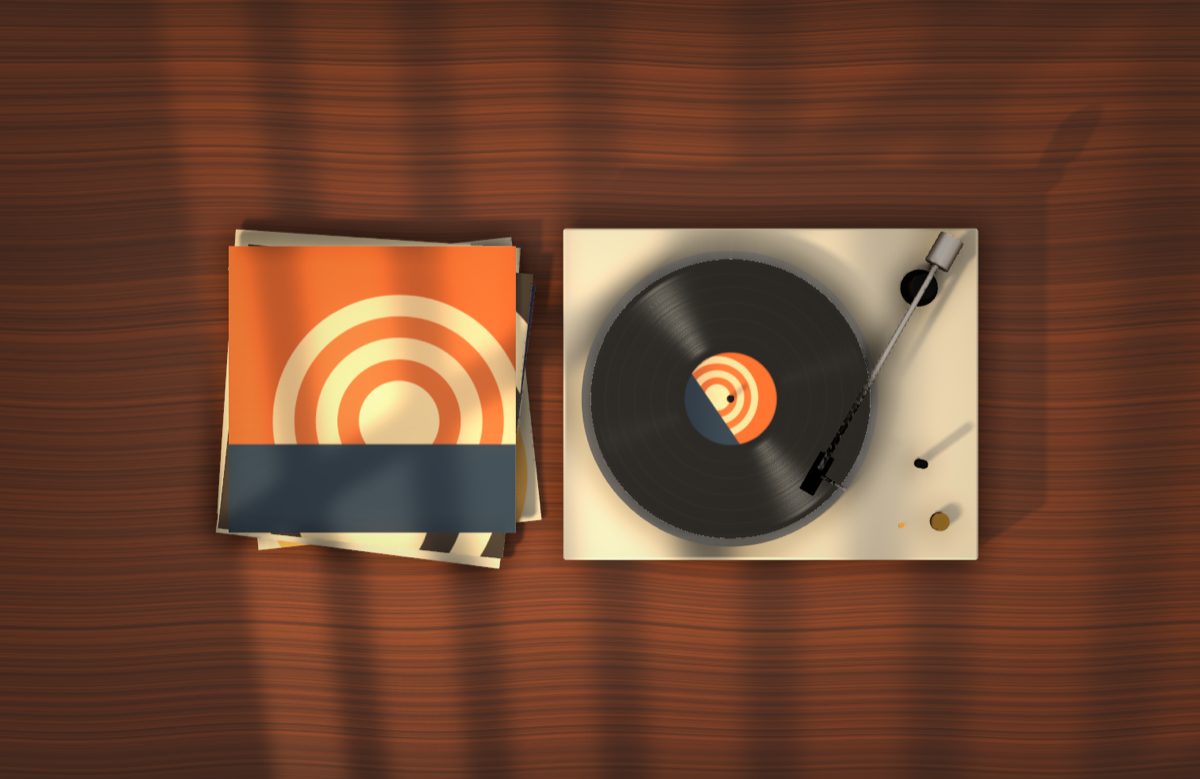
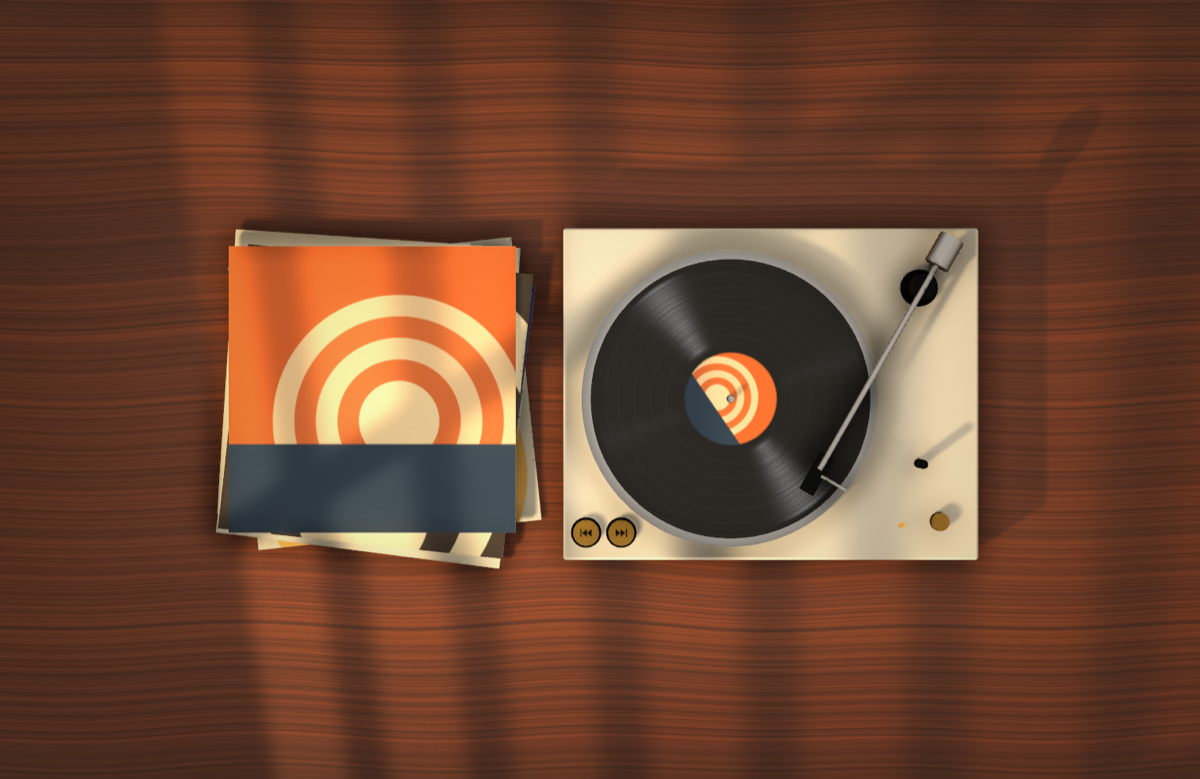
Add skip buttons and make only the tonearm toggle playback

diff --git a/Sources/Vinyl/TurntableScene.swift b/Sources/Vinyl/TurntableScene.swift
@@ -53,6 +53,11 @@ final class TurntableScene {
     private var bulbMaterial = SCNMaterial()
     private var sheenMaterial = SCNMaterial()
 
+    /// Things on the turntable that react to a click.
+    enum Control: String { case playPause = "ctl.playpause", next = "ctl.next", previous = "ctl.prev" }
+    private var buttons: [Control: SCNNode] = [:]
+    private var knobNode = SCNNode()
+
     private struct StackItem { let node: SCNNode; let dx: CGFloat; let dz: CGFloat; let yaw: CGFloat }
     private var stack: [StackItem] = []
     private var stackCounter: UInt64 = 0
@@ -192,7 +197,11 @@ final class TurntableScene {
         vinyl.normal.intensity = 1
         let record = SCNCylinder(radius: 1.5, height: 0.025)
         record.radialSegmentCount = 160
-        spin.addChildNode(node(record, vinyl, at: SCNVector3(0, 0.2125, 0)))
+        // The record is radially symmetric, so it stays still while the label and platter spin.
+        // That lets the light wedges across the grooves live in its own material and stay put.
+        vinyl.emission.contents = Self.sheen
+        sheenMaterial = vinyl
+        turntable.addChildNode(node(record, vinyl, at: SCNVector3(-0.45, top + 0.2125, 0.05)))
 
         labelMaterial = Self.mat(Tex.label(from: currentArt), rough: 0.6)
         let label = SCNCylinder(radius: 0.5, height: 0.028)
@@ -201,16 +210,6 @@ final class TurntableScene {
         spin.addChildNode(node(SCNCylinder(radius: 0.035, height: 0.14), alu, at: SCNVector3(0, 0.27, 0)))
         turntable.addChildNode(spin)
 
-        // Groove sheen sits just above the record and stays put while it spins.
-        sheenMaterial.lightingModel = .constant
-        sheenMaterial.diffuse.contents = Self.sheen
-        sheenMaterial.blendMode = .add
-        sheenMaterial.writesToDepthBuffer = false
-        let sheenDisc = SCNCylinder(radius: 1.5, height: 0.002)
-        sheenDisc.radialSegmentCount = 96
-        let sheenNode = node(sheenDisc, sheenMaterial, at: SCNVector3(-0.45, top + 0.228, 0.05))
-        sheenNode.castsShadow = false
-        turntable.addChildNode(sheenNode)
 
         // Tonearm.
         let dark = Self.mat(Self.rgb(0.07, 0.07, 0.075), rough: 0.35, metal: 1)
@@ -235,10 +234,33 @@ final class TurntableScene {
 
         // Brass knob + power LED.
         let brass = Self.mat(Self.rgb(0.78, 0.60, 0.30), rough: 0.3, metal: 1)
-        turntable.addChildNode(node(SCNCylinder(radius: 0.1, height: 0.1), brass, at: SCNVector3(1.82, top + 0.05, 1.38)))
+        let knob = node(SCNCylinder(radius: 0.1, height: 0.1), brass, at: SCNVector3(1.82, top + 0.05, 1.38))
+        knob.name = Control.playPause.rawValue
+        turntable.addChildNode(knob)
         ledMaterial = Self.mat(Self.rgb(0.1, 0.03, 0.02), rough: 0.4)
         ledMaterial.emission.contents = NSColor.black
         turntable.addChildNode(node(SCNCylinder(radius: 0.028, height: 0.012), ledMaterial, at: SCNVector3(1.42, top + 0.006, 1.42)))
+
+        // Previous / next: two brass push buttons in the front-left corner of the top plate.
+        for (control, x) in [(Control.previous, -2.0), (Control.next, -1.62)] as [(Control, CGFloat)] {
+            let holder = SCNNode()
+            holder.name = control.rawValue
+            holder.position = SCNVector3(x, top, 1.5)
+            holder.addChildNode(node(SCNCylinder(radius: 0.165, height: 0.012), dark))
+            let cap = Self.mat(Tex.buttonCap(forward: control == .next), rough: 0.32, metal: 1)
+            let button = SCNCylinder(radius: 0.14, height: 0.07)
+            button.radialSegmentCount = 48
+            button.materials = [brass, cap, brass]
+            let buttonNode = SCNNode(geometry: button)
+            buttonNode.position = SCNVector3(0, 0.035, 0)
+            buttonNode.eulerAngles.y = -.pi / 2
+            buttonNode.name = "cap"
+            holder.addChildNode(buttonNode)
+            turntable.addChildNode(holder)
+            buttons[control] = buttonNode
+        }
+
+        knobNode = knob
 
         scene.rootNode.addChildNode(turntable)
     }
@@ -410,7 +432,7 @@ final class TurntableScene {
             shadeMaterial.emission.intensity = day ? 0 : 0.9
             bulbMaterial.emission.contents = day ? NSColor.black : Self.rgb(1, 0.85, 0.6)
             bulbMaterial.emission.intensity = day ? 0 : 6
-            sheenMaterial.multiply.contents = day ? Self.rgb(0.75, 0.72, 0.66) : Self.rgb(0.5, 0.27, 0.1)
+            sheenMaterial.emission.intensity = day ? 0.55 : 0.22
             applyCameraEffects()
 
             // Layout.
@@ -498,8 +520,20 @@ final class TurntableScene {
 
     func setPlaying(_ on: Bool, animated: Bool) {
         playing = on
+        let target = on ? armPlay : armRest
+        arm.removeAllActions()
+        if animated {
+            // Lift the needle, swing across, set it down.
+            let from = arm.eulerAngles.y
+            arm.runAction(.sequence([
+                .rotateTo(x: -0.07, y: from, z: 0, duration: 0.25, usesShortestUnitArc: true),
+                .rotateTo(x: -0.07, y: target, z: 0, duration: 0.85, usesShortestUnitArc: true),
+                .rotateTo(x: 0, y: target, z: 0, duration: 0.3, usesShortestUnitArc: true),
+            ]))
+        } else {
+            arm.eulerAngles = SCNVector3(0, target, 0)
+        }
         transact(animated, 1.3) {
-            arm.eulerAngles.y = on ? armPlay : armRest
             ledMaterial.emission.contents = on ? Self.rgb(1, 0.35, 0.1) : NSColor.black
             ledMaterial.emission.intensity = on ? 4 : 0
         }
@@ -578,13 +612,19 @@ final class TurntableScene {
         }
     }
 
-    /// True if the hit node belongs to the turntable.
-    static func isTurntable(_ node: SCNNode?) -> Bool {
-        var n = node
-        while let cur = n {
-            if cur.name == "turntable" { return true }
-            n = cur.parent
-        }
-        return false
+    /// Where the clickable parts are, in world space: round targets plus the tonearm as a segment.
+    /// The caller projects these to the screen, so no invisible geometry is needed.
+    var clickTargets: (points: [(Control, SCNVector3)], arm: (SCNVector3, SCNVector3)) {
+        var points: [(Control, SCNVector3)] = [(.playPause, knobNode.presentation.worldPosition)]
+        for (control, cap) in buttons { points.append((control, cap.presentation.worldPosition)) }
+        let p = arm.presentation
+        return (points, (p.convertPosition(SCNVector3(0, 0, -0.55), to: nil), p.convertPosition(SCNVector3(0, -0.05, 2.5), to: nil)))
+    }
+
+    /// Dip a skip button as if it had been pushed.
+    func press(_ control: Control) {
+        guard let cap = buttons[control] else { return }
+        let down = SCNAction.moveBy(x: 0, y: -0.035, z: 0, duration: 0.07)
+        cap.runAction(.sequence([down, down.reversed()]))
     }
 }

diff --git a/Sources/Vinyl/DesktopController.swift b/Sources/Vinyl/DesktopController.swift
@@ -70,7 +70,7 @@ final class DesktopController: NSObject, SCNSceneRendererDelegate {
     private var appliedPreset: TurntableScene.Preset
     private var appliedSize: Int
     private var appliedTransparent = false
-    var onTurntableClick: (() -> Void)?
+    var onControl: ((TurntableScene.Control) -> Void)?
 
     init(state: AppState) {
         self.state = state
@@ -195,8 +195,32 @@ final class DesktopController: NSObject, SCNSceneRendererDelegate {
         mouseDownAt = nil
         guard window.frame.contains(p), isDesktopExposed(at: p) else { return }
         let local = view.convert(window.convertPoint(fromScreen: p), from: nil)
-        let hits = view.hitTest(local, options: [.searchMode: SCNHitTestSearchMode.closest.rawValue])
-        if TurntableScene.isTurntable(hits.first?.node) { onTurntableClick?() }
+        // Only the tonearm, the knob and the two skip buttons react; the rest of the deck is inert.
+        guard let control = control(at: local) else { return }
+        if control != .playPause { scene.press(control) }
+        kick(3)
+        onControl?(control)
+    }
+
+    /// Which control, if any, is under this point of the view.
+    private func control(at point: CGPoint) -> TurntableScene.Control? {
+        func screen(_ v: SCNVector3) -> CGPoint {
+            let p = view.projectPoint(v)
+            return CGPoint(x: p.x, y: p.y)
+        }
+        let targets = scene.clickTargets
+        // Slack scales with how big the deck is drawn: about a tenth of a record's width.
+        let slack = max(14, hypot(screen(targets.arm.0).x - screen(targets.arm.1).x, screen(targets.arm.0).y - screen(targets.arm.1).y) * 0.09)
+        for (control, world) in targets.points {
+            let c = screen(world)
+            if hypot(point.x - c.x, point.y - c.y) < slack { return control }
+        }
+        let a = screen(targets.arm.0), b = screen(targets.arm.1)
+        let ab = CGPoint(x: b.x - a.x, y: b.y - a.y)
+        let len2 = max(1, ab.x * ab.x + ab.y * ab.y)
+        let t = max(0, min(1, ((point.x - a.x) * ab.x + (point.y - a.y) * ab.y) / len2))
+        let nearest = CGPoint(x: a.x + ab.x * t, y: a.y + ab.y * t)
+        return hypot(point.x - nearest.x, point.y - nearest.y) < slack ? .playPause : nil
     }
 
     /// True when no ordinary window covers this screen point, i.e. the click landed on the desktop.

diff --git a/Sources/Vinyl/AppDelegate.swift b/Sources/Vinyl/AppDelegate.swift
@@ -13,7 +13,13 @@ final class AppDelegate: NSObject, NSApplicationDelegate, NSMenuDelegate {
 
     func applicationDidFinishLaunching(_ notification: Notification) {
         desktop = DesktopController(state: state)
-        desktop.onTurntableClick = { [weak self] in self?.monitor.togglePlayPause() }
+        desktop.onControl = { [weak self] control in
+            switch control {
+            case .playPause: self?.monitor.togglePlayPause()
+            case .next: self?.monitor.skip(forward: true)
+            case .previous: self?.monitor.skip(forward: false)
+            }
+        }
         state.onChange = { [weak self] in
             DispatchQueue.main.async { self?.desktop.applySettings() }
         }
@@ -96,6 +102,8 @@ final class AppDelegate: NSObject, NSApplicationDelegate, NSMenuDelegate {
             sub.isEnabled = false
             menu.addItem(sub)
             menu.addItem(item(state.isPlaying ? "Pause" : "Play", #selector(togglePlayback)))
+            menu.addItem(item("Next", #selector(nextTrack)))
+            menu.addItem(item("Previous", #selector(previousTrack)))
         } else {
             let idle = NSMenuItem(title: "Play something in Spotify or Apple Music", action: nil, keyEquivalent: "")
             idle.isEnabled = false
@@ -123,6 +131,8 @@ final class AppDelegate: NSObject, NSApplicationDelegate, NSMenuDelegate {
     }
 
     @objc private func togglePlayback() { monitor.togglePlayPause() }
+    @objc private func nextTrack() { monitor.skip(forward: true) }
+    @objc private func previousTrack() { monitor.skip(forward: false) }
     @objc private func pickScene(_ sender: NSMenuItem) {
         if let p = TurntableScene.Preset(rawValue: sender.tag) { state.pick(p) }
     }

diff --git a/Sources/Vinyl/Textures.swift b/Sources/Vinyl/Textures.swift
@@ -344,6 +344,28 @@ enum Tex {
         }
     }
 
+    /// Brass button cap with an engraved skip glyph (two triangles and a bar).
+    static func buttonCap(forward: Bool) -> CGImage {
+        draw(128, 128) { ctx in
+            ctx.setFillColor(color((0.78, 0.60, 0.30)))
+            ctx.fill(CGRect(x: 0, y: 0, width: 128, height: 128))
+            if !forward {
+                ctx.translateBy(x: 128, y: 0)
+                ctx.scaleBy(x: -1, y: 1)
+            }
+            ctx.setFillColor(color((0.16, 0.10, 0.04)))
+            for x0 in [36, 60] as [CGFloat] {
+                ctx.beginPath()
+                ctx.move(to: CGPoint(x: x0, y: 44))
+                ctx.addLine(to: CGPoint(x: x0 + 24, y: 64))
+                ctx.addLine(to: CGPoint(x: x0, y: 84))
+                ctx.closePath()
+                ctx.fillPath()
+            }
+            ctx.fill(CGRect(x: 86, y: 44, width: 7, height: 40))
+        }
+    }
+
     /// Soft contact shadow used when the room is hidden.
     static func shadowBlob() -> CGImage {
         draw(256, 256) { ctx in

diff --git a/Sources/Vinyl/NowPlaying.swift b/Sources/Vinyl/NowPlaying.swift
@@ -104,9 +104,13 @@ final class NowPlayingMonitor {
         }
     }
 
-    func togglePlayPause() {
+    func togglePlayPause() { send("playpause") }
+
+    func skip(forward: Bool) { send(forward ? "next track" : "previous track") }
+
+    private func send(_ command: String) {
         let target = active ?? [Player.spotify, .music].first { $0.isRunning }
         guard let player = target, player.isRunning else { return }
-        Script.queue.async { _ = Script.run("tell application \"\(player.appName)\" to playpause") }
+        Script.queue.async { _ = Script.run("tell application \"\(player.appName)\" to \(command)") }
     }
 }

diff --git a/Sources/Vinyl/SettingsView.swift b/Sources/Vinyl/SettingsView.swift
@@ -49,7 +49,7 @@ struct SettingsView: View {
             }
             .background(card, in: RoundedRectangle(cornerRadius: 14))
 
-            Text("Click the turntable on your desktop to play or pause.")
+            Text("On your desktop: click the tonearm to play or pause, and the brass buttons to skip.")
                 .font(.system(size: 12)).foregroundStyle(.tertiary)
         }
         .padding(.horizontal, 24)

diff --git a/README.md b/README.md
@@ -15,7 +15,8 @@ Personal project. Everything on screen is rendered live with SceneKit and every 
 
 - Three scenes: **Daylight**, **Lamplight** and **Top Down**
 - Follows the clock: Daylight from 6:30 am, Lamplight after 6:30 pm (can be turned off)
-- Click the turntable on the desktop to play or pause
+- Click the tonearm (or the brass knob) on the desktop to play or pause
+- Two brass buttons on the deck skip to the previous or next song
 - The tonearm swings onto the record and the platter spins up at 33⅓ rpm
 - Album covers come from Spotify and Apple Music, no login
 - Each new song drops the previous cover onto the stack
